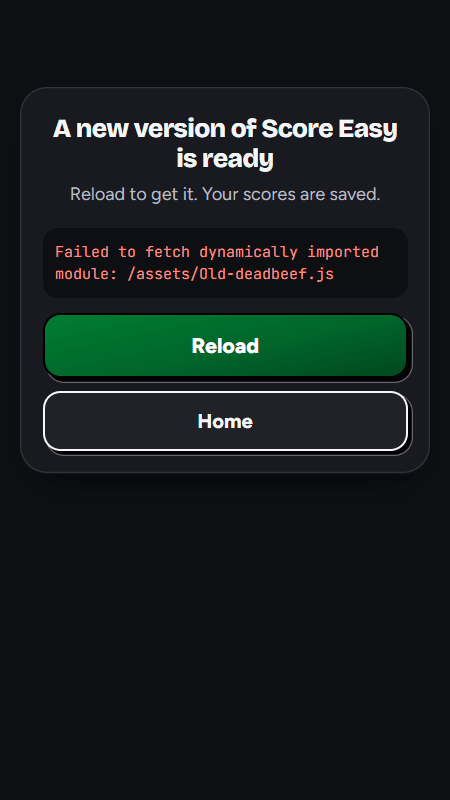
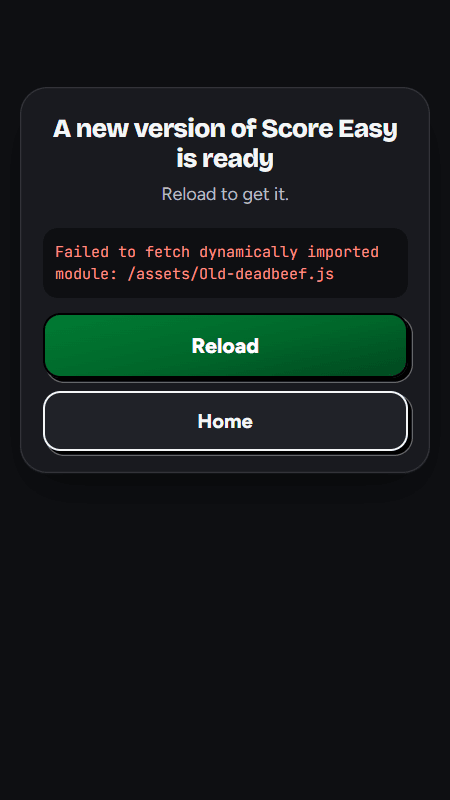
fix: never reload twice until startup succeeds, never when a save failed, only for chunk errors

Changed region(s): [[0.1556, 0.2188, 0.84, 0.25]]

diff --git a/src/utils/chunkReload.js b/src/utils/chunkReload.js
@@ -1,10 +1,14 @@
-// A deploy replaces the hashed JS chunks. A tab opened before the deploy then asks
-// for a chunk URL that no longer exists; the host answers with index.html and the
-// dynamic import() throws. One automatic full reload picks up the new build. The
-// guard below makes sure that reload can never turn into a loop.
+// A deploy replaces the hashed JS chunks. A tab opened before the deploy then asks for a
+// chunk URL that no longer exists; the host answers with index.html and the dynamic import()
+// throws. One automatic full reload picks up the new build.
+//
+// The reload can never loop, however slowly the next failure arrives: the attempt is recorded
+// in sessionStorage and stays recorded until the app starts successfully (the shell mounted
+// and a route rendered: ChunkReloadReset) or the user presses Reload / Try again. While an
+// attempt is recorded, a chunk failure shows the "new version" screen instead of reloading.
+import { hasOutstandingSaveFailure } from './saveHealth';
 
-export const CHUNK_RELOAD_KEY = 'se-chunk-reload-at';
-export const CHUNK_RELOAD_GUARD_MS = 10_000;
+export const CHUNK_RELOAD_KEY = 'se-chunk-reload-attempt';
 
 const CHUNK_ERROR_PATTERNS = [
   'failed to fetch dynamically imported module',
@@ -19,14 +23,14 @@ export function isChunkLoadError(error) {
   return CHUNK_ERROR_PATTERNS.some((pattern) => text.includes(pattern));
 }
 
-// Reload the current URL once. Returns true when a reload was started, false when
-// one already happened inside the guard window (or the guard cannot be recorded,
-// in which case reloading blind could loop).
+// Reload the current URL once. Returns true when a reload was started, false when it was
+// refused: an attempt is already recorded, a local save failed and the newest score may exist
+// only in memory, or the attempt cannot be recorded (reloading blind could loop).
 export function reloadOnceForNewVersion(now = Date.now()) {
+  if (hasOutstandingSaveFailure()) return false;
   try {
     const storage = globalThis.sessionStorage;
-    const last = Number(storage.getItem(CHUNK_RELOAD_KEY));
-    if (now - last < CHUNK_RELOAD_GUARD_MS) return false;
+    if (storage.getItem(CHUNK_RELOAD_KEY) !== null) return false;
     storage.setItem(CHUNK_RELOAD_KEY, String(now));
   } catch {
     return false;
@@ -35,10 +39,22 @@ export function reloadOnceForNewVersion(now = Date.now()) {
   return true;
 }
 
-// Vite fires `vite:preloadError` when a dependency preload fails. Reload once and
-// swallow the error; if a reload just happened, let it through to the boundary.
+// The app started and a route rendered, or the user chose to reload: the next chunk failure
+// may reload automatically once again.
+export function clearChunkReloadAttempt() {
+  try {
+    globalThis.sessionStorage.removeItem(CHUNK_RELOAD_KEY);
+  } catch {
+    // Storage blocked: nothing was recorded, so nothing to clear.
+  }
+}
+
+// Vite fires `vite:preloadError` when a dependency preload fails, with the error as `payload`.
+// Reload once and swallow only a chunk-load failure. Any other rejected import (a module that
+// throws while evaluating) and any refused reload propagate to the boundary and Sentry.
 export function installChunkReloadHandler() {
   const onPreloadError = (event) => {
+    if (!isChunkLoadError(event.payload)) return;
     if (reloadOnceForNewVersion()) event.preventDefault();
   };
   globalThis.addEventListener('vite:preloadError', onPreloadError);

diff --git a/src/components/ErrorBoundary.jsx b/src/components/ErrorBoundary.jsx
@@ -1,7 +1,8 @@
 import React from 'react';
 import PropTypes from 'prop-types';
 import * as Sentry from '@sentry/react';
-import { isChunkLoadError, reloadOnceForNewVersion } from '../utils/chunkReload';
+import { clearChunkReloadAttempt, isChunkLoadError, reloadOnceForNewVersion } from '../utils/chunkReload';
+import { hasOutstandingSaveFailure } from '../utils/saveHealth';
 import '../designs/design1-mono/kit/kit.css';
 import '../designs/design1-mono/kit/history.css';
 import './ErrorBoundary.css';
@@ -19,8 +20,10 @@ class ErrorBoundary extends React.Component {
   componentDidCatch(error, errorInfo) {
     // A stale chunk after a deploy is not a crash: reload once to pick up the new
     // build. Only full-screen boundaries do this; a silent-fallback widget keeps
-    // isolating its own failure. The live match is saved on every change, so the
-    // reload restores it.
+    // isolating its own failure. The live match draft is saved on every change, so the
+    // reload restores it. reloadOnceForNewVersion refuses when a reload was already tried
+    // (it must reach a successful startup first) or when a local save failed and the newest
+    // score may exist only in memory; the screen below then takes over.
     if (this.props.fallback === undefined && isChunkLoadError(error) && reloadOnceForNewVersion()) {
       this.setState({ reloading: true });
       return;
@@ -40,10 +43,12 @@ class ErrorBoundary extends React.Component {
   }
 
   handleReload = () => {
+    clearChunkReloadAttempt();
     globalThis.location.reload();
   };
 
   handleRetry = () => {
+    clearChunkReloadAttempt();
     this.setState({ hasError: false, error: null, reloading: false });
   };
 
@@ -71,9 +76,14 @@ class ErrorBoundary extends React.Component {
     const title = isStale
       ? 'A new version of Score Easy is ready'
       : this.props.title || 'This screen hit a problem';
-    const message = isStale
-      ? 'Reload to get it. Your scores are saved.'
-      : this.props.message || 'Your scores are saved.';
+    // No promise that scores are saved: a failed local save can leave the newest point in memory
+    // only. Say what is true, and warn when a save failure is outstanding.
+    let message = this.props.message || 'Try again, or go Home.';
+    if (isStale) {
+      message = hasOutstandingSaveFailure()
+        ? 'Your latest score may not be saved on this device. Reloading can lose it.'
+        : 'Reload to get it.';
+    }
 
     return (
       <div className="se-crash">

diff --git a/src/utils/saveHealth.js b/src/utils/saveHealth.js
@@ -1,5 +1,23 @@
-// Stub: tracks local save failures. Wired in by the fix commit.
-export function markSaveFailed() {}
-export function markSaveOk() {}
-export function hasOutstandingSaveFailure() { return false; }
-export function resetSaveHealth() {}
+// Tracks local saves that failed and have not been followed by a successful save of the same
+// key. While one is outstanding, the newest score may exist only in memory, so nothing may
+// reload the page on its own and no screen may promise "your scores are saved".
+//
+// Module state on purpose: it is per tab and per page load, which is exactly the lifetime of
+// the in-memory state it describes. storage.js sets and clears it; nothing else needs to.
+const failingKeys = new Set();
+
+export function markSaveFailed(key) {
+  failingKeys.add(key);
+}
+
+export function markSaveOk(key) {
+  failingKeys.delete(key);
+}
+
+export function hasOutstandingSaveFailure() {
+  return failingKeys.size > 0;
+}
+
+export function resetSaveHealth() {
+  failingKeys.clear();
+}

diff --git a/src/utils/storage.js b/src/utils/storage.js
@@ -1,6 +1,7 @@
 // LocalStorage utility for persistent data
 import { migrateTournaments } from './formatMigration';
 import { tournamentCompletionId } from './tournamentSync';
+import { markSaveFailed, markSaveOk } from './saveHealth';
 
 // One-time migration from old 'gamescore_' prefix to 'se_'
 function migrateStoragePrefix() {
@@ -232,8 +233,11 @@ function getStorage() {
 function safeSave(key, data) {
   try {
     getStorage().setItem(key, JSON.stringify(data));
+    markSaveOk(key);
     return { success: true };
   } catch (error) {
+    // Remember the failure until this key saves again: the newest data may live only in memory.
+    markSaveFailed(key);
     if (
       error?.name === 'QuotaExceededError' ||
       error?.code === 22 ||
@@ -305,6 +309,7 @@ export const loadData = (key, defaultValue = null) => {
 export const clearData = (key) => {
   try {
     getStorage().removeItem(key);
+    markSaveOk(key);
     return true;
   } catch (error) {
     console.error('Error clearing data:', error);

diff --git a/src/designs/design1-mono/index.jsx b/src/designs/design1-mono/index.jsx
@@ -15,6 +15,7 @@ import {
 } from '../../utils/appEntry';
 import { AuthUserButton } from '../../components/AuthButtons';
 import ErrorBoundary from '../../components/ErrorBoundary';
+import ChunkReloadReset from '../../components/ChunkReloadReset';
 import OfflineFallback from '../../components/OfflineFallback';
 import ConvexReconnectingFallback from '../../components/ConvexReconnectingFallback';
 import {
@@ -1738,6 +1739,7 @@ export default function Design1Mono() {
         <ScoringCompletionContext.Provider value={completeProtectedScoring}>
         <Suspense fallback={<LazyFallback />}>
           <ErrorBoundary>
+            <ChunkReloadReset />
             <OnboardingGuard>
               <Routes>
                 <Route path="" element={<AppEntryRoute />} />

diff --git a/src/components/ChunkReloadReset.jsx b/src/components/ChunkReloadReset.jsx
@@ -1,4 +1,12 @@
-// Stub: marks a successful startup. Wired in by the fix commit.
+import { useEffect } from 'react';
+import { clearChunkReloadAttempt } from '../utils/chunkReload';
+
+// Rendered inside the app's route boundary and Suspense. Its effect runs only once the route
+// content has rendered, so it marks a successful startup: the reload that fixed a stale chunk
+// worked, and the next stale chunk may reload automatically again.
 export default function ChunkReloadReset() {
+  useEffect(() => {
+    clearChunkReloadAttempt();
+  }, []);
   return null;
 }
